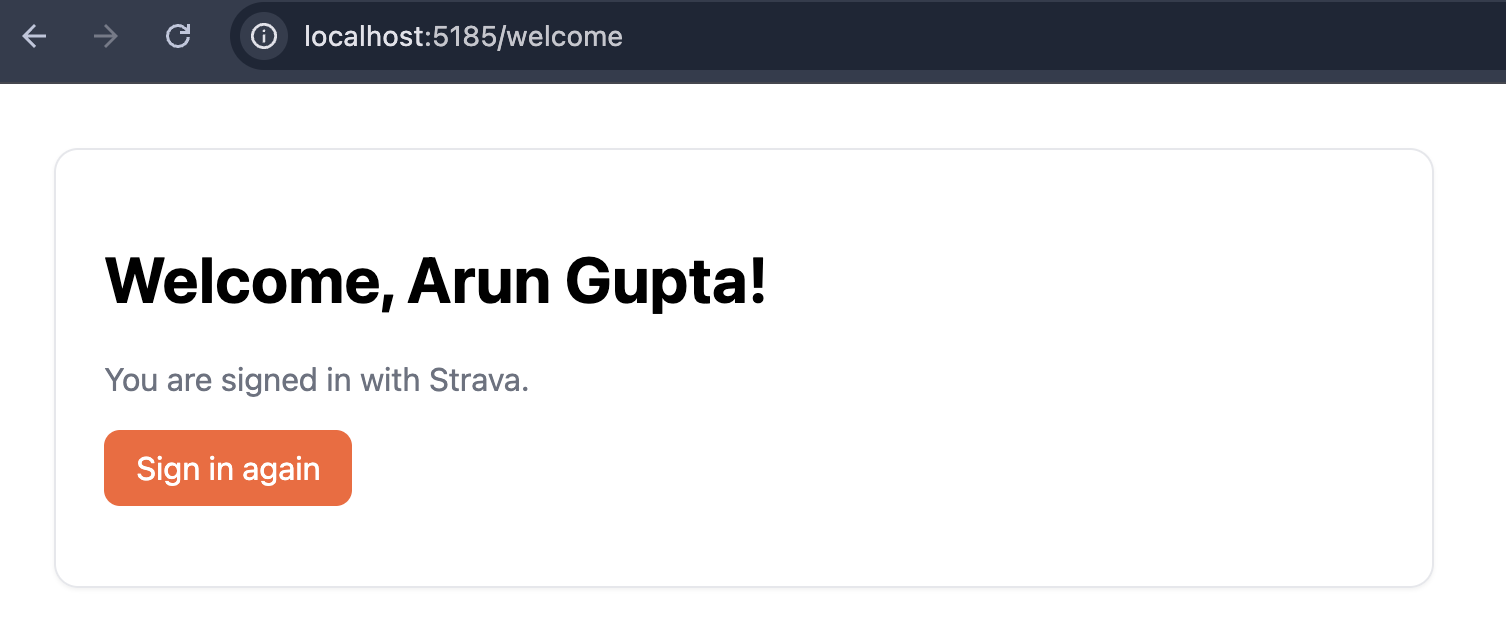
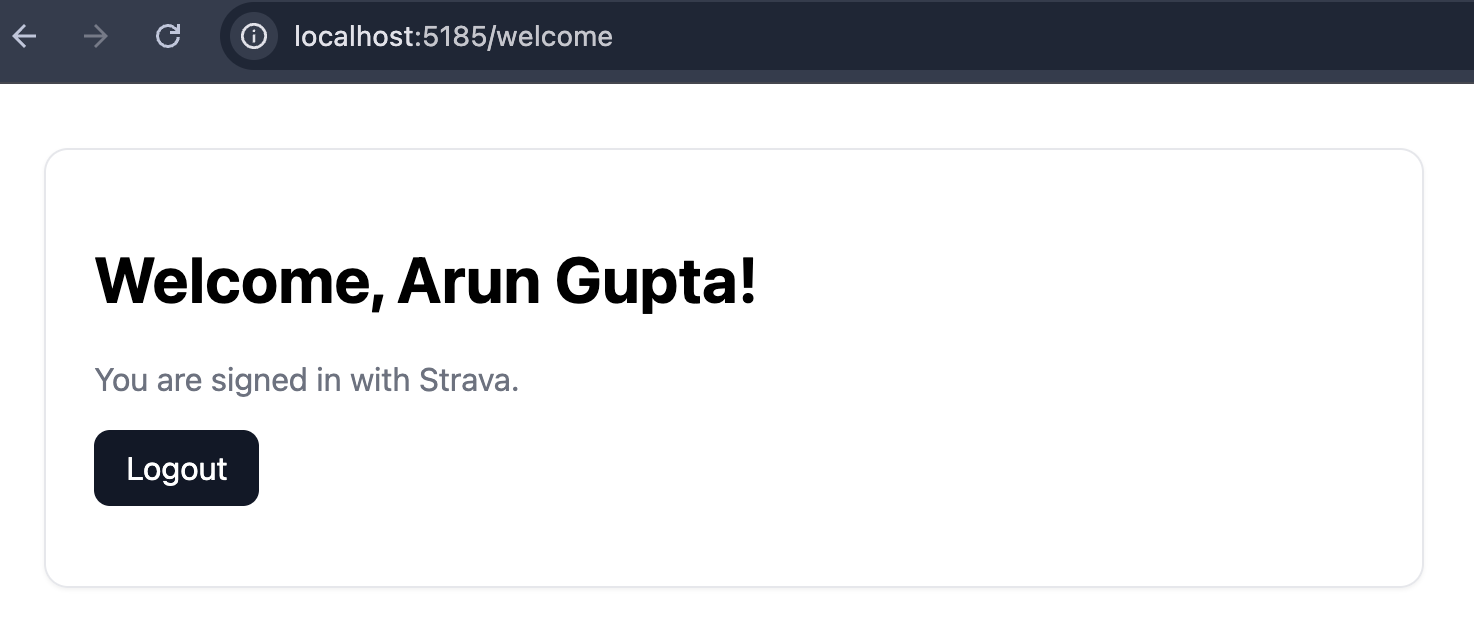
Welcome page: show 'You are signed in' + Logout button; show 'Sign in again' only when signed out. Update tasks.md accordingly.

diff --git a/src/StravaStats.Api/Program.cs b/src/StravaStats.Api/Program.cs
@@ -219,13 +219,16 @@ app.MapGet("/welcome", (HttpContext http) =>
         "      .card { max-width: 640px; padding: 1.5rem; border: 1px solid #e5e7eb; border-radius: 12px; box-shadow: 0 1px 2px rgba(0,0,0,0.05); }\n" +
         "      .muted { color: #6b7280; }\n" +
         "      a.button { display: inline-block; padding: 0.6rem 1rem; background: #f96332; color: white; border-radius: 8px; text-decoration: none; }\n" +
+        "      a.button.secondary { background: #111827; }\n" +
         "    </style>\n" +
         "  </head>\n" +
         "  <body>\n" +
         "    <div class=\"card\">\n" +
         "      <h1>Welcome" + nameHtml + "!</h1>\n" +
         "      <p class=\"muted\">" + System.Net.WebUtility.HtmlEncode(statusText) + "</p>\n" +
-        "      <p><a class=\"button\" href=\"/auth/login\">Sign in again</a></p>\n" +
+        (isSignedIn
+            ? "      <p><a class=\"button secondary\" href=\"/auth/logout\">Logout</a></p>\n"
+            : "      <p><a class=\"button\" href=\"/auth/login\">Sign in again</a></p>\n") +
         "    </div>\n" +
         "  </body>\n" +
         "</html>\n";

diff --git a/docs/tasks.md b/docs/tasks.md
@@ -40,7 +40,7 @@ This document tracks the step-by-step technical tasks required to build the Stra
   - **Details:** Create middleware or a service wrapper that checks token expiration before API calls and uses the `refresh_token` to get a new `access_token` if needed.
   - Completed on 2025-11-21: Added `EnsureAccessTokenAsync` helper to auto-refresh when `expires_at` is near/over; updates session with new tokens. Provided `/me` endpoint that uses the helper and returns the Strava athlete JSON.
 
-- [ ] **1.7 Create Logout Endpoint**
+- [x] **1.7 Create Logout Endpoint**
   - _Plan Item:_ Sign Out Flow
   - _Req ID:_ [Req 2]
   - **Details:** Implement `/auth/logout` to clear session cookies and invalidate server-side session state.
